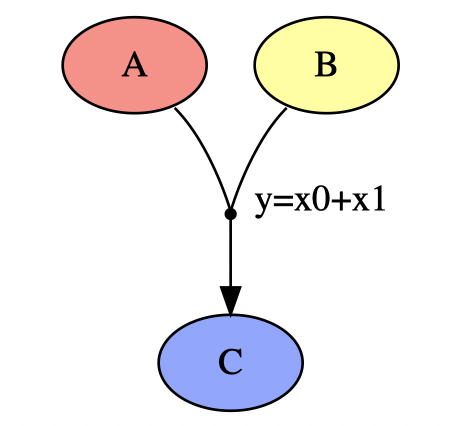
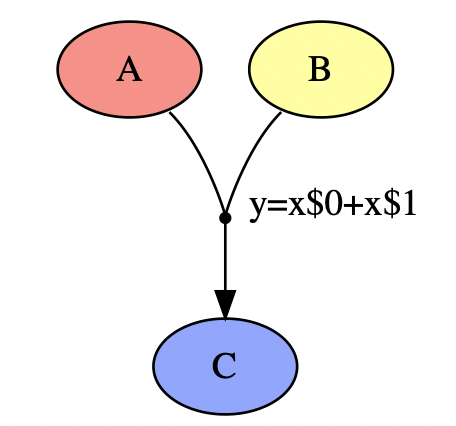
Expression engine: modified signal index su=yntax as discussed in annual workshop: rather than y=x0+x1 we now use y=x-zsh+x

diff --git a/src/map.c b/src/map.c
@@ -1076,18 +1076,18 @@ static const char *_set_linear(mpr_local_map m, const char *e)
             for (i = 0; i < m->num_src; i++) {
                 if (m->src[i]->sig->len > dst_vec_len) {
                     if (1 == dst_vec_len)
-                        len += snprintf(expr+len, MAX_LEN-len, "x%d[0]+", i);
+                        len += snprintf(expr+len, MAX_LEN-len, "x$%d[0]+", i);
                     else
-                        len += snprintf(expr+len, MAX_LEN-len, "x%d[0:%d]+", i, dst_vec_len-1);
+                        len += snprintf(expr+len, MAX_LEN-len, "x$%d[0:%d]+", i, dst_vec_len-1);
                 }
                 else if (m->src[i]->sig->len < dst_vec_len) {
-                    len += snprintf(expr+len, MAX_LEN-len, "[x%d,0", i);
+                    len += snprintf(expr+len, MAX_LEN-len, "[x$%d,0", i);
                     for (j = 1; j < dst_vec_len - m->src[0]->sig->len; j++)
                         len += snprintf(expr+len, MAX_LEN-len, ",0");
                     len += snprintf(expr+len, MAX_LEN-len, "]+");
                 }
                 else
-                    len += snprintf(expr+len, MAX_LEN-len, "x%d+", i);
+                    len += snprintf(expr+len, MAX_LEN-len, "x$%d+", i);
             }
             --len;
             snprintf(expr+len, MAX_LEN-len, ")/%d", m->num_src);
@@ -1629,8 +1629,8 @@ mpr_map mpr_map_new_from_str(const char *expr, ...)
     mpr_sig sig, srcs[MAX_NUM_MAP_SRC];
     mpr_sig dst = NULL;
     mpr_map map = NULL;
-    int i = 0, j, num_src = 0;
-    char *dup;
+    int i = 0, j, num_src = 0, in_refs = 0;
+    char *new_expr;
     va_list aq;
     RETURN_ARG_UNLESS(expr, 0);
     va_start(aq, expr);
@@ -1670,6 +1670,7 @@ mpr_map mpr_map_new_from_str(const char *expr, ...)
                     }
                     srcs[num_src++] = sig;
                 }
+                ++in_refs;
                 break;
             default:
                 trace("Illegal format token '%%%c' in mpr_map_new_from_str().\n", expr[i+1]);
@@ -1686,31 +1687,30 @@ mpr_map mpr_map_new_from_str(const char *expr, ...)
     map = mpr_map_new(num_src, srcs, 1, &dst);
 
     /* edit the expression string in-place */
-    i = 0;
-    dup = strdup(expr);
+    i = j = 0;
+    new_expr = calloc(1, strlen(expr) + in_refs + 1);
     va_start(aq, expr);
     while (expr[i]) {
         while (expr[i] && expr[i] != '%')
-            ++i;
+            new_expr[j++] = expr[i++];
         if (!expr[i])
             break;
         sig = va_arg(aq, void*);
         if (expr[i+1] == 'y') {
             /* replace the preceding '%' with a space */
-            dup[i] = ' ';
+            new_expr[j++] = 'y';
         }
         else {  /* 'x' */
-            /* retrieve signal index */
-            j = mpr_map_get_sig_idx(map, sig);
-            /* replace "%x" with "xi" where i is the signal index */
-            dup[i] = 'x';
-            dup[i+1] = "0123456789"[j%10];
+            /* replace "%x" with "x$i" where i is the signal index */
+            new_expr[j++] = 'x';
+            new_expr[j++] = '$';
+            new_expr[j++] = "0123456789"[mpr_map_get_sig_idx(map, sig) % 10];
         }
         i += 2;
     }
     va_end(aq);
-    mpr_obj_set_prop((mpr_obj)map, MPR_PROP_EXPR, NULL, 1, MPR_STR, dup, 1);
-    free(dup);
+    mpr_obj_set_prop((mpr_obj)map, MPR_PROP_EXPR, NULL, 1, MPR_STR, new_expr, 1);
+    free(new_expr);
     return map;
 
 error:

diff --git a/test/testconvergent.c b/test/testconvergent.c
@@ -141,7 +141,7 @@ int setup_maps()
 
     switch (config) {
         case 0: {
-            int offset = 2, len = num_sources * 4 + 4;
+            int offset = 2, len = num_sources * 5 + 5;
             char *expr;
 
             if (!(map = mpr_map_new(num_sources, sendsigs, 1, &recvsig))) {
@@ -156,15 +156,15 @@ int setup_maps()
             for (i = 0; i < num_sources; i++) {
                 if (i == 0) {
                     /* set the first source to trigger evaluation */
-                    snprintf(expr + offset, len - offset, "-x%d",
+                    snprintf(expr + offset, len - offset, "-x$%d",
                              mpr_map_get_sig_idx(map, sendsigs[i]));
-                    offset += 3;
+                    offset += 4;
                 }
                 else {
                     /* mute the remaining sources so they don't trigger evaluation */
-                    snprintf(expr + offset, len - offset, "-_x%d",
+                    snprintf(expr + offset, len - offset, "-_x$%d",
                              mpr_map_get_sig_idx(map, sendsigs[i]));
-                    offset += 4;
+                    offset += 5;
                 }
             }
             mpr_obj_set_prop(map, MPR_PROP_EXPR, NULL, 1, MPR_STR, expr, 1);
@@ -179,7 +179,8 @@ int setup_maps()
 
             /* build expression string with combination function and buddy logic */
             mpr_obj_set_prop(map, MPR_PROP_EXPR, NULL, 1, MPR_STR,
-                             "alive=(t_x0>=t_y{-1})&&(t_x1>=t_y{-1})&&(t_x2>=t_y{-1});y=x0+x1+x2;", 1);
+                             "alive=(t_x$0>=t_y{-1})&&(t_x$1>=t_y{-1})&&(t_x$2>=t_y{-1});"
+                             "y=x$0+x$1+x$2;", 1);
             break;
         case 2:
             /* create/modify map with format string and signal arguments */

diff --git a/test/testparser.c b/test/testparser.c
@@ -792,7 +792,7 @@ int run_tests()
         return 1;
 
     /* 49) Multiple Inputs */
-    snprintf(str, 256, "y=x+x1[1:2]+x2");
+    snprintf(str, 256, "y=x+x$1[1:2]+x$2");
     setup_test_multisource(3, types, lens, MPR_FLT, 2);
     expect_flt[0] = (float)((double)src_int[0] + (double)src_flt[1] + src_dbl[0]);
     expect_flt[1] = (float)((double)src_int[1] + (double)src_flt[2] + src_dbl[1]);
@@ -958,7 +958,7 @@ int run_tests()
         return 1;
 
     /* 63) Buddy logic */
-    snprintf(str, 256, "alive=(t_x0>t_y{-1})&&(t_x1>t_y{-1});y=x0+x1[1:2];");
+    snprintf(str, 256, "alive=(t_x$0>t_y{-1})&&(t_x$1>t_y{-1});y=x$0+x$1[1:2];");
     /* types[] and lens[] are already defined */
     setup_test_multisource(2, types, lens, MPR_FLT, 2);
     expect_flt[0] = src_int[0] + src_flt[1];
@@ -1034,7 +1034,7 @@ int run_tests()
         return 1;
 
     /* 74) Dot product of two vectors */
-    snprintf(str, 256, "y=dot(x, x1);");
+    snprintf(str, 256, "y=dot(x, x$1);");
     lens[0] = 3;
     setup_test_multisource(2, types, lens, MPR_FLT, 1);
     expect_flt[0] = src_int[0] * src_flt[0] + src_int[1] * src_flt[1] + src_int[2] * src_flt[2];
@@ -1217,7 +1217,7 @@ int run_tests()
         return 1;
 
     /* 93) vector.reduce() on specific signal */
-    snprintf(str, 256, "y=x1.vector.reduce(x,a -> x+a);");
+    snprintf(str, 256, "y=x$1.vector.reduce(x,a -> x+a);");
     types[0] = MPR_INT32;
     types[1] = MPR_FLT;
     types[2] = MPR_DBL;
@@ -1230,7 +1230,7 @@ int run_tests()
         return 1;
 
     /* 94) instance.count() on specific signal */
-    snprintf(str, 256, "y=x1.instance.count();");
+    snprintf(str, 256, "y=x$1.instance.count();");
     types[0] = MPR_INT32;
     types[1] = MPR_FLT;
     types[2] = MPR_DBL;

diff --git a/src/expression.c b/src/expression.c
@@ -732,15 +732,15 @@ static void var_lookup(mpr_token_t *tok, const char *s, int len)
     else if ('x' == *s) {
         if (1 == len)
             tok->var.idx = VAR_X;
-        else {
+        else if ('$' == *(s+1)) {
             int i, ordinal = 1;
-            for (i = 1; i < len; i++) {
+            for (i = 2; i < len; i++) {
                 if (!isdigit(*(s+i))) {
                     ordinal = 0;
                     break;
                 }
             }
-            tok->var.idx = ordinal ? VAR_X + atoi(s+1) : VAR_UNKNOWN;
+            tok->var.idx = ordinal ? VAR_X + atoi(s+2) : VAR_UNKNOWN;
         }
     }
     else
@@ -876,7 +876,7 @@ static int expr_lex(const char *str, int idx, mpr_token_t *tok)
         /* continue to next case 'e' */
     case 'e':
         if (!integer_found) {
-            while (c && (isalpha(c) || isdigit(c) || c == '_'))
+            while (c && (isalpha(c) || isdigit(c) || c == '_' || c == '$'))
                 c = str[++idx];
             if ((tok->fn.idx = fn_lookup(str+i, idx-i)) != FN_UNKNOWN)
                 tok->toktype = TOK_FN;
@@ -1046,7 +1046,7 @@ static int expr_lex(const char *str, int idx, mpr_token_t *tok)
             lex_error("unknown character '%c' in lexer\n", c);
             break;
         }
-        while (c && (isalpha(c) || isdigit(c) || c == '_'))
+        while (c && (isalpha(c) || isdigit(c) || c == '_' || c == '$'))
             c = str[++idx];
         if ((tok->fn.idx = fn_lookup(str+i, idx-i)) != FN_UNKNOWN)
             tok->toktype = TOK_FN;

diff --git a/swig/testconvergent.py b/swig/testconvergent.py
@@ -26,7 +26,7 @@ map = mpr.map(outsigs, insig)
 if not map:
     print('error: map not created')
 else:
-    map['expr'] = "y=x0+_x1+_x2"
+    map['expr'] = "y=x$0+_x$1+_x$2"
     map.push()
 
     while not map.ready:

diff --git a/doc/expression_syntax.md b/doc/expression_syntax.md
@@ -352,7 +352,7 @@ Convergent mapping—in which multiple source signals update a single destinatio
   </tr>
   </tr>
     <tr>
-    <td><strong>convergent maps</strong>: arbitrary combining functions can be defined by creating a single map with multiple sources. Libmapper will automatically reorder the sources alphabetically by name, and source values are referred to in the map expression by the string <code>x</code>+<code>&lt;source index&gt;</code> as shown in the example to the right. When editing the expression it is crucial to use the correct signal indices which may have been reordered from the array provided to the map constructor; they can be retrieved using the function <code>mpr_map_get_sig_idx()</code> or you can use mpr_map_new_from_str() to have libmapper handle signal index lookup automatically.</td>
+    <td><strong>convergent maps</strong>: arbitrary combining functions can be defined by creating a single map with multiple sources. Libmapper will automatically reorder the sources alphabetically by name, and source values are referred to in the map expression by the string <code>x$</code>+<code>&lt;source index&gt;</code> as shown in the example to the right. When editing the expression it is crucial to use the correct signal indices which may have been reordered from the array provided to the map constructor; they can be retrieved using the function <code>mpr_map_get_sig_idx()</code> or you can use mpr_map_new_from_str() to have libmapper handle signal index lookup automatically.</td>
     <td>
         <img style="display:block;margin:auto;padding:0px;" src="./images/full_convergent.png">
     </td>
@@ -409,7 +409,7 @@ When mapping a singleton source signal to an instanced destination signal there 
 
 <h2 id="propagation-management">Propagation Management</h2>
 
-By default, convergent maps will trigger expression evaluation when *any* of the source signals are updated. For example, the convergent map `y=x0+x1` will output a new value whenever `x0` *or* `x1` are updated. Evaluation can be disabled for a source signal by inserting an underscore `_` symbol before the source name, e.g. `y=x0+_x1` will be evaluated only when the source `x0` is updated, while updates to source `x1` will be stored but will not trigger evaluation or propagation to the destination signal.
+By default, convergent maps will trigger expression evaluation when *any* of the source signals are updated. For example, the convergent map `y=x$0+x$1` will output a new value whenever `x$0` *or* `x$1` are updated. Evaluation can be disabled for a source signal by inserting an underscore `_` symbol before the source name, e.g. `y=x$0+_x$1` will be evaluated only when the source `x$0` is updated, while updates to source `x$1` will be stored but will not trigger evaluation or propagation to the destination signal.
 
 If desired, the entire expression can be evaluated "silently" so that updates do not propagate to the destination. This is accomplished by manipulating a special variable named `muted`. For maps with singleton destination signals this has an identical effect to manipulating the `alive` variable, but for instanced destinations it enables filtering updates without releasing the associated instance.
 

diff --git a/doc/images/diagrams.md b/doc/images/diagrams.md
@@ -71,6 +71,6 @@ These diagrams are used in the [expression documentation](../expression_syntax.m
     map [shape=point];
     A:se -> map [arrowhead=none];
     B:sw -> map [arrowhead=none];
-    map -> C [xlabel="   y=x0+x1\n "];
+    map -> C [xlabel="   y=x$0+x$1\n "];
 }</code></pre></div>
 
